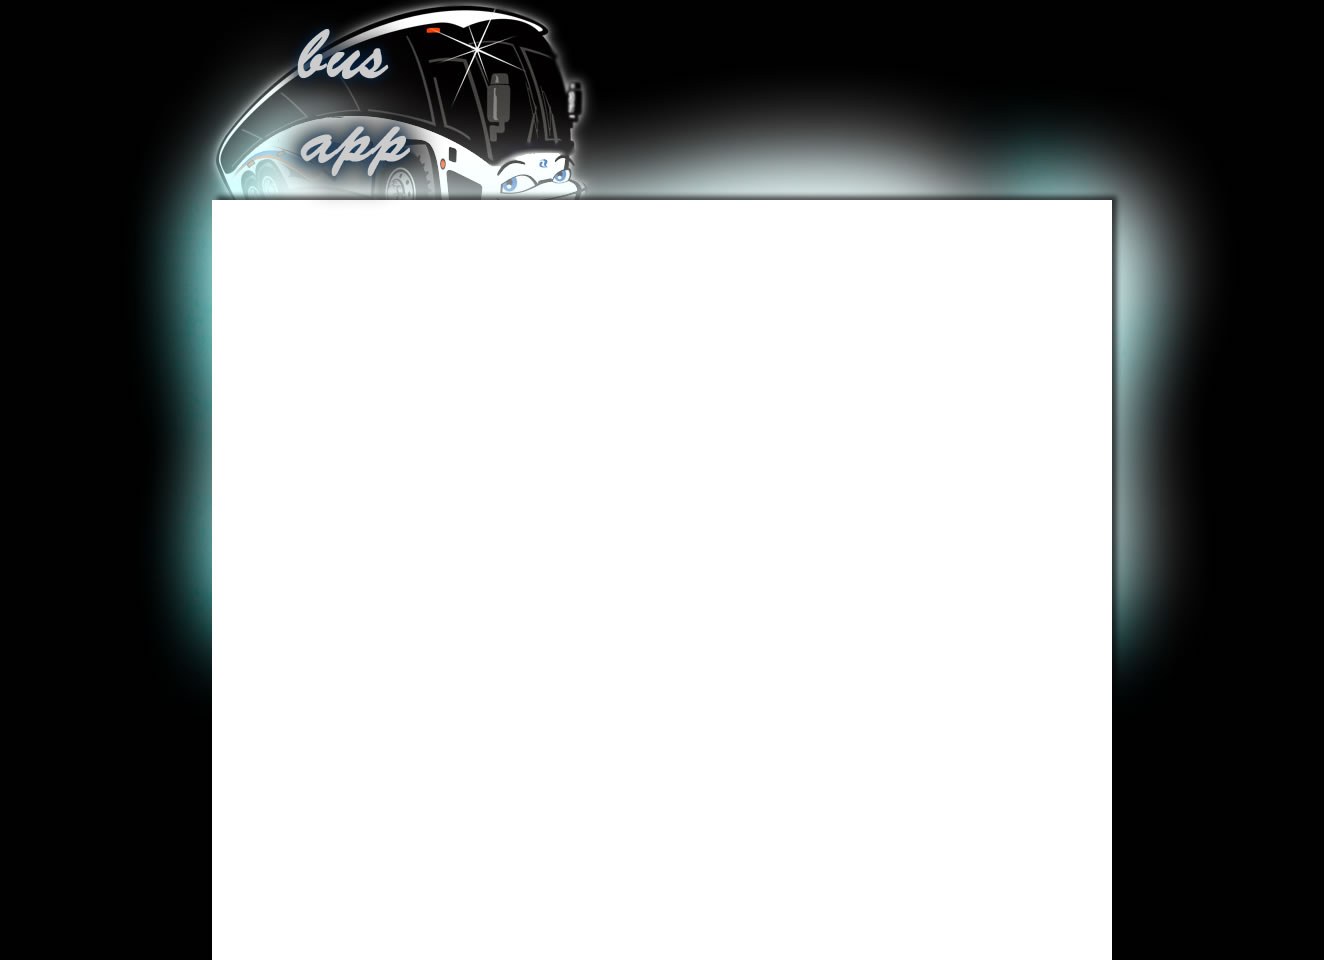
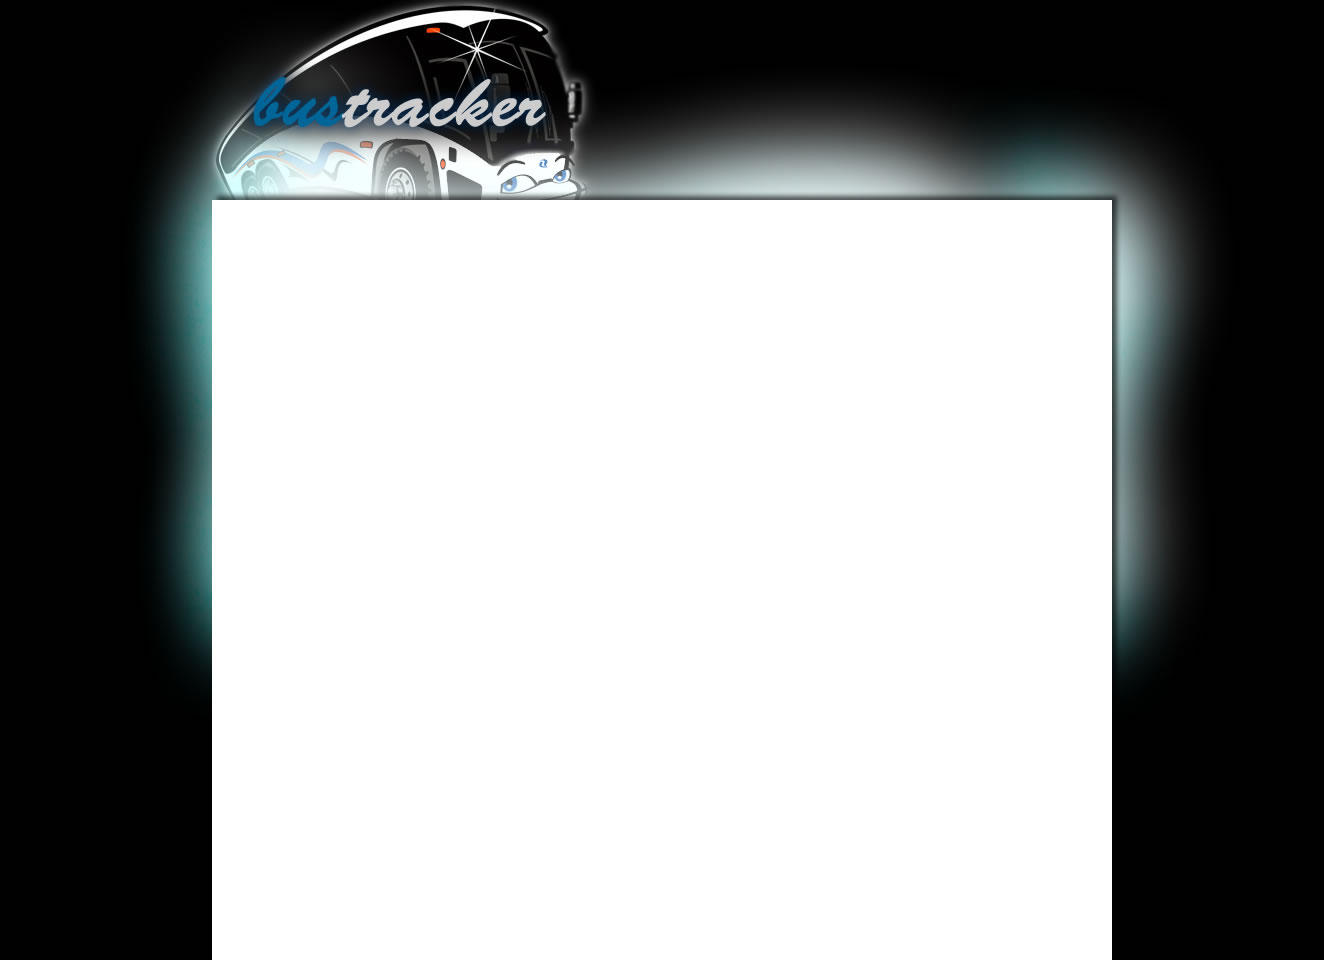
added "about" and "screenshots" and new title
new title - BusTracker

Changed region(s): [[0.1858, 0.0312, 0.4335, 0.2188]]

diff --git a/www/master.css b/www/master.css
@@ -36,7 +36,7 @@ height:180%;
 
 #mainContent
 {
-width:560px;
+width:900px;
 float:left;
 background-color:white;
 margin-bottom:20px;
@@ -44,7 +44,7 @@ margin-bottom:20px;
 
 #written
 {
-margin-left:10px;
+margin-left:20px;
 margin-right:10px;
 margin-top:5px;
 margin-bottom:5px;
@@ -72,9 +72,10 @@ background: url(menuLarge.jpg) no-repeat scroll left top;
 height:50px;
 width:900px;
 padding-left:75px;
-padding-top:6px;
+padding-top:10px;
 font-size:30px;
 color:black;
+font-weight:bold
 font-family:sans-serif;
 }
 

diff --git a/www/main.php b/www/main.php
@@ -10,12 +10,20 @@ Announcements will be posted here, possibly from a RSS feed.
 Blog info will be displayed here, assuming we have a blog.
 </div-->
 
+<div id="menuLarge">ABOUT</div>
+<div id="written">
+The app tracks the actual location of the bus and let the passengers waiting at the bus stop know how far it is.
+</div>
+
 <div id="menuLarge">SURVEY</div>
 <div id="written">
 <?php include 'survey/survey.php';?>
 </div>
 
+<div id="menuLarge">SCREENSHOTS</div>
+<div id="written">
 <img src="featureImage.jpg">
+</div>
 
 </div>
 <!------
